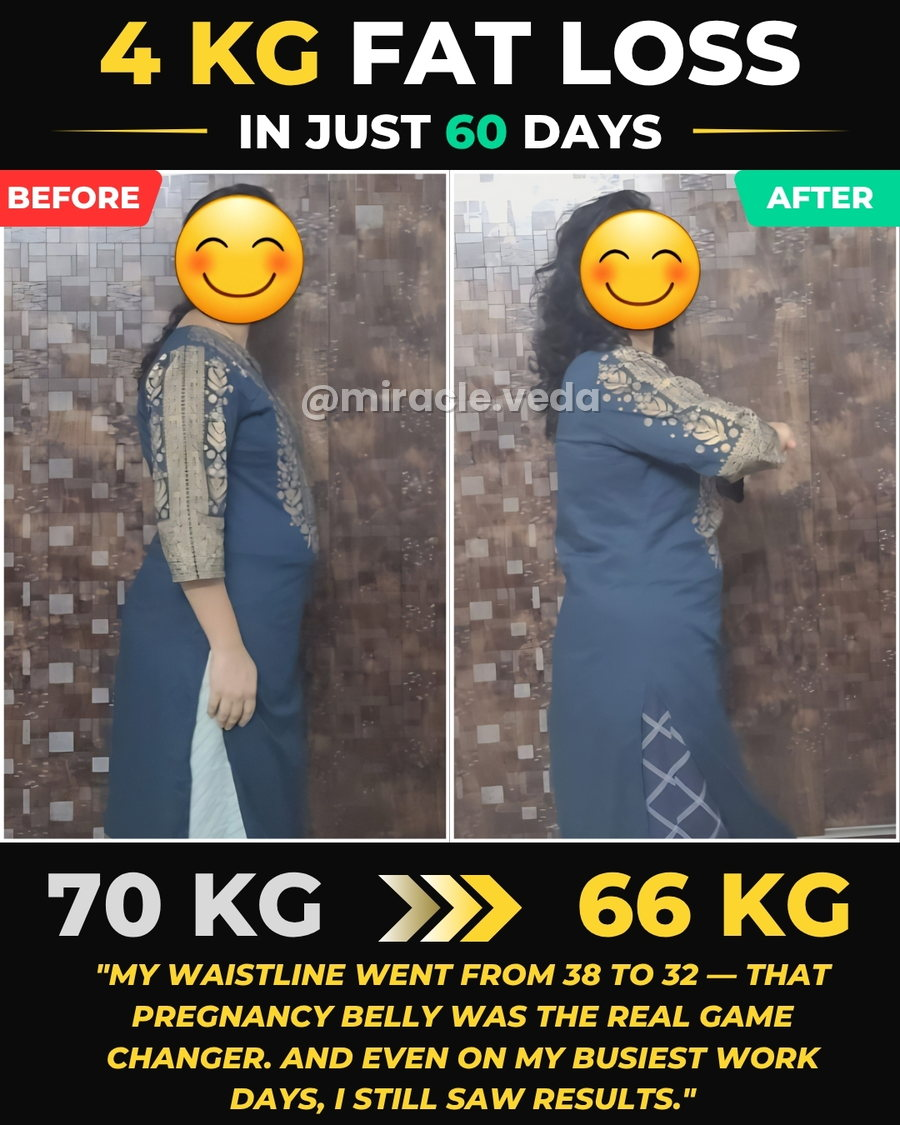
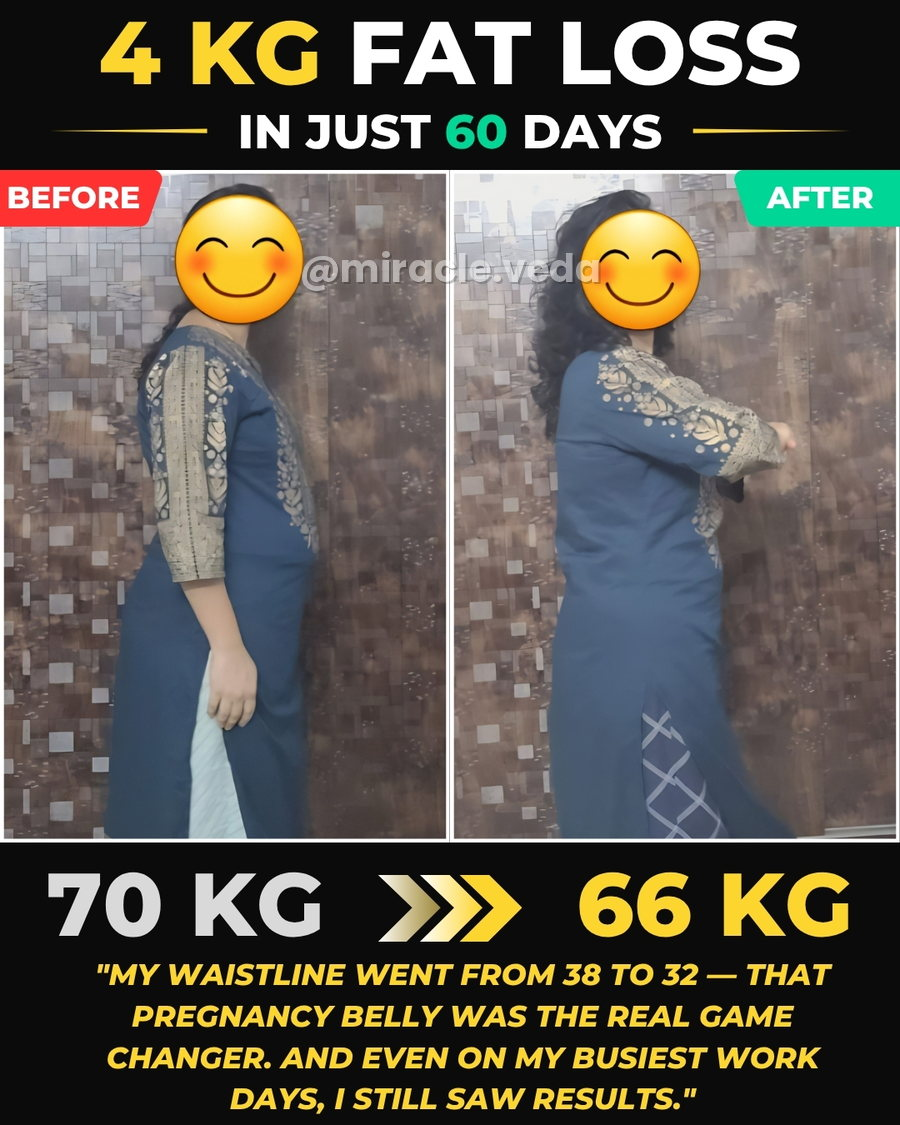
Preview shows only the before/after photos and the weight line, unwatermarked; darker bolder nonsense labels; Nikitha's watermark raised clear of the midsection

Changed region(s): [[0.3422, 0.2178, 0.6844, 0.28], [0.3111, 0.3422, 0.6844, 0.3733]]

diff --git a/index.html b/index.html
@@ -509,19 +509,19 @@ src="https://www.facebook.com/tr?id=3144157445775942&ev=PageView&noscript=1"
             .nonsense-grid { gap: 6px; }
             .nonsense-item { padding: 9px 4px; gap: 3px; text-align: center; }
             .nonsense-item i { font-size: 0.85rem; }
-            .nonsense-item span { font-size: 0.63rem; line-height: 1.15; letter-spacing: 0; }
+            .nonsense-item span { font-size: 0.66rem; line-height: 1.15; letter-spacing: 0; font-weight: 800; }
         }
         @media (max-width: 420px) {
             .nonsense-grid { gap: 5px; }
             .nonsense-item { padding: 8px 3px; }
-            .nonsense-item span { font-size: 0.56rem; }
+            .nonsense-item span { font-size: 0.59rem; font-weight: 800; }
         }
 
         .nonsense-item {
-            background: #FBF6F5;
+            background: #FFF7F6;
             padding: 12px 14px;
             border-radius: 8px;
-            border: 1px solid #E8D5D2;
+            border: 1.5px solid #F0C9C6;
             display: flex;
             align-items: center;
             gap: 10px;
@@ -537,13 +537,13 @@ src="https://www.facebook.com/tr?id=3144157445775942&ev=PageView&noscript=1"
         }
 
         .nonsense-item i {
-            font-size: 1rem;
+            font-size: 1.05rem;
             flex-shrink: 0;
-            color: #C25B57;          /* muted, so twenty of them don't shout */
+            color: #D94A4A;
         }
 
         .nonsense-item span {
-            color: #3A3A3A;
+            color: #111111;
             font-weight: 800;
             letter-spacing: 0.2px;
         }
